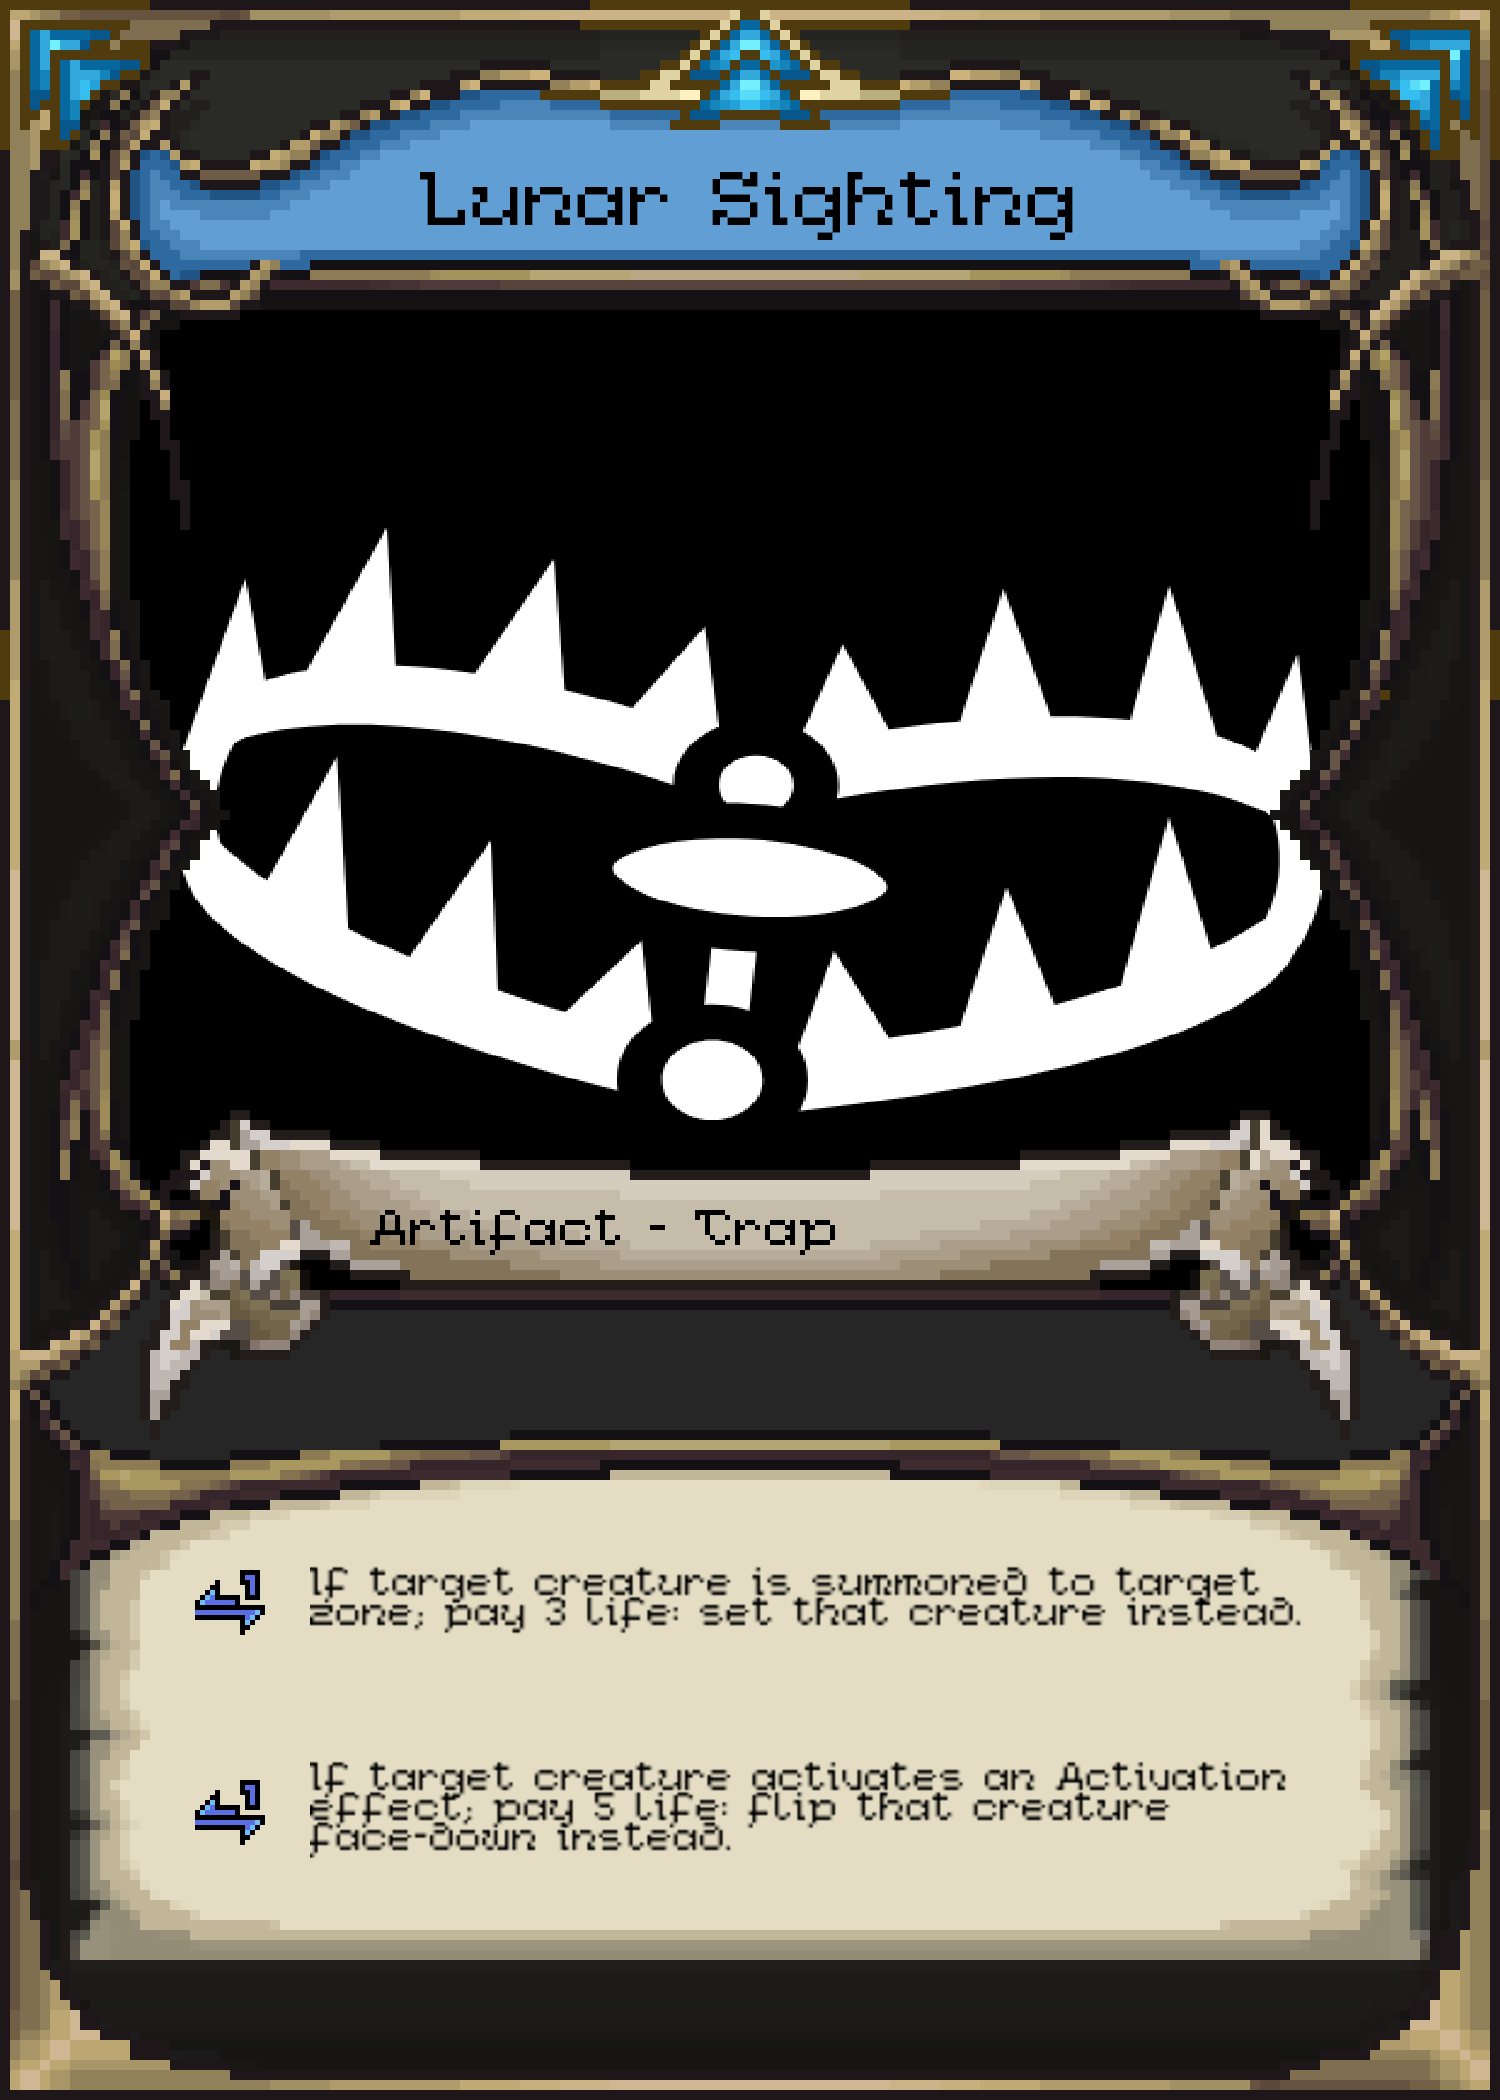
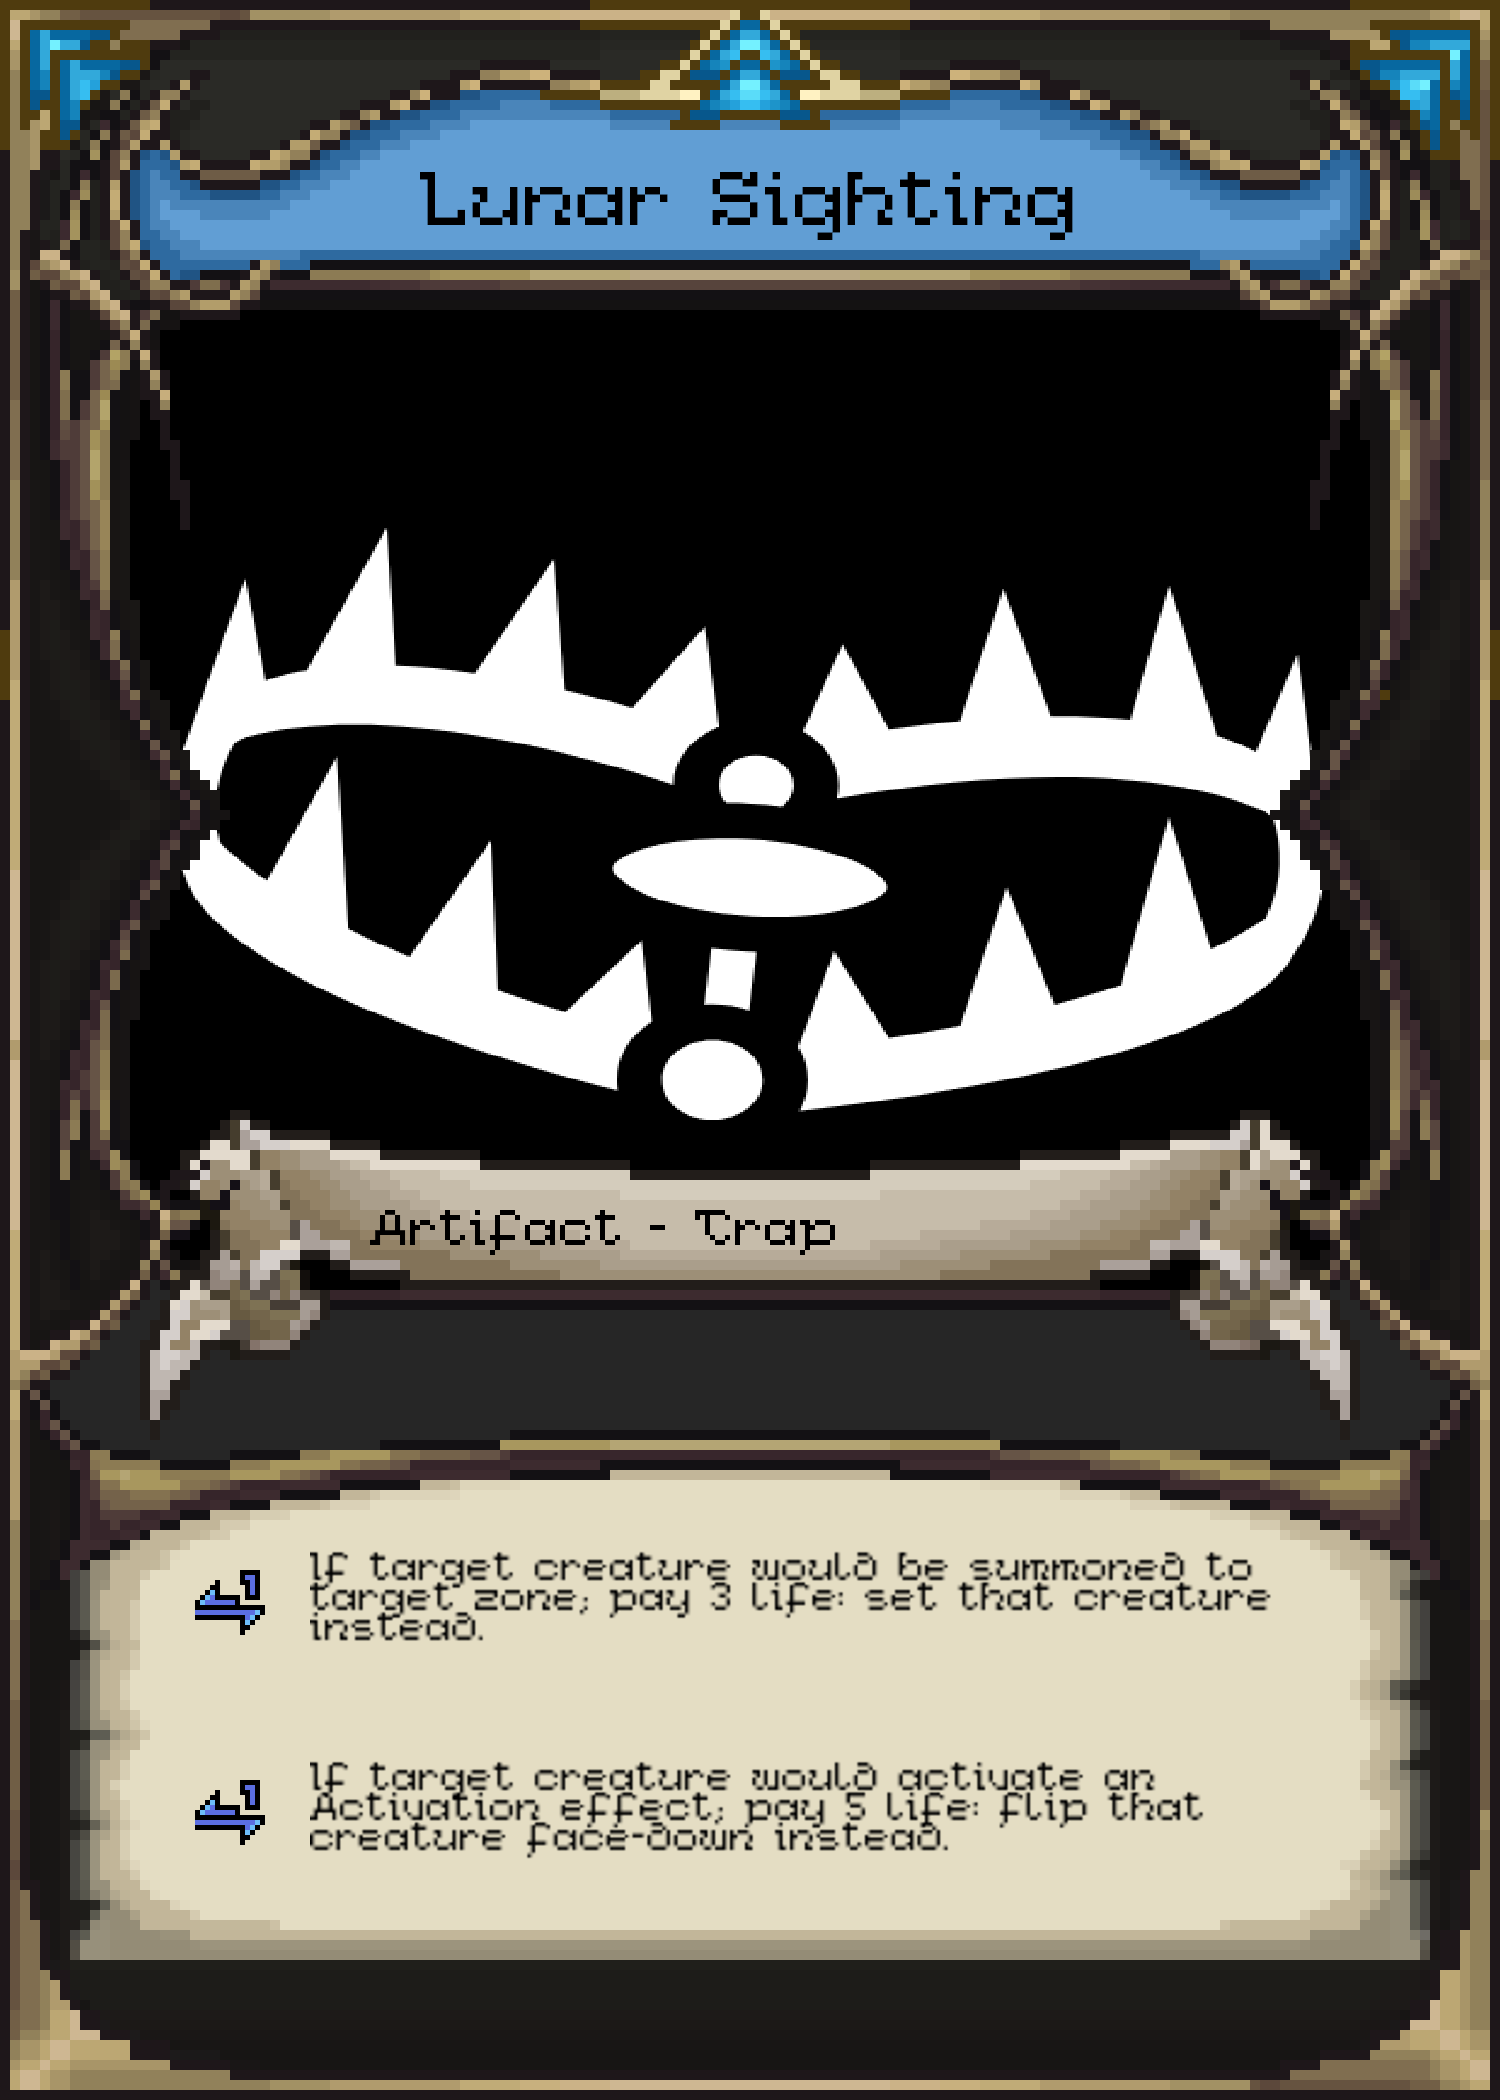
Deploy dim-rift

Changed region(s): [[0.184, 0.8357, 0.8587, 0.8976], [0.184, 0.7429, 0.8587, 0.8048]]

diff --git a/projects/dim-rift/content/cards/index.html b/projects/dim-rift/content/cards/index.html
@@ -69,13 +69,13 @@ Cards played from your extra deck can only be summoned (i.e. played face-up).</p
 <p>There are a few sub-types of Artifacts with special rules:</p>
 <h4 id="equipment" tabindex="-1">Equipment</h4>
 <p>Equipments are artifacts that have stats and [equipped]-type effects that can be transferred to a creature.</p>
-<p>When an Equipment is summoned, it's controller must immediately choose a zone respecting its arrows (i.e. &quot;target&quot; a zone). However this does not target the card currently in the zone, and empty or inactive zones can be chosen.</p>
-<p>The [equipped] zone is then established and does not move with creature movement. Any creature while in that zone immediately gets all the effects and stats transferred, and similarly lose them if they leave the zone.</p>
-<p>At the end of the equipment's Move Action, a different [equipped] zone can be selected (e.g. once during each Campaign), even if the Equipment card did not reposition or rotate.</p>
+<p>When an Equipment is summoned, its controller must immediately choose a connected creature zone (i.e. respecting the arrows). However, this does not target the card currently in the zone, and empty or even inactive zones can be chosen.</p>
+<p>The [equipped] zone is then established and does not move with creature movement. Any face-up creature, while in that zone, immediately gets all the effects and stats transferred, and similarly, immediately lose them if they leave the zone.</p>
+<p>At the end of the equipment's Move Action, or after it is rotated, a different [equipped] zone can be selected (e.g. once per equipment during each Campaign), even if the Equipment card has zero movement or did not reposition nor rotate.</p>
 <p>Attack, Life, Armor and Movement stats are transferred to the card currently in the zone, as long as any effects that mention the tag [equipped]. The Movement stat, if present, can also be used the applying the Move action to the artifact itself. The Mana establishes the amount of mana to acquire in the Equipment itself and is not transferred. Attack, Life and Armor specified are only relevant for transferring.</p>
 <h4 id="vehicle" tabindex="-1">Vehicle</h4>
 <p>Vehicles are artifacts that have stats, arrows and [equipped]-type effects that can be transferred to a creature. They all also have a greater-than-zero Movement stat, and thus can move in the Artifact row. On top of that, as part of their Move Action, they can spend 1 movement point to be &quot;crewed&quot; or &quot;uncrewed&quot;.</p>
-<p>To do that, target a creature you control from the vehicle and move the vehicle card underneath the target creature card. Now they are bound together and the creature gets the status and [equipped]-effects transferred, similar to an Equipment.</p>
+<p>To do that, target a face-up creature you control from the vehicle and move the vehicle card underneath the target creature card. Now they are bound together and the creature gets the status and [equipped]-effects transferred, similar to an Equipment.</p>
 <p>While crewed, the card is always kept underneath this creature as it moves and is destroyed if the creature is destroyed.</p>
 <p>While crewed, Attack, Life, Armor and Movement stats are combined with the creature, alongside effects tagged with [equipped]. The arrows of the vehicle are also added to the creatures arrows (you can choose the vehicle orientation underneath the creature when crewing). Vehicles cannot have Mana.</p>
 <p>You can use another 1 movement point to &quot;uncrew&quot; the artifact back to a target empty active artifact zone or the empty active artifact zone immediately &quot;below&quot; the creature.</p>

diff --git a/projects/dim-rift/content/faq/index.html b/projects/dim-rift/content/faq/index.html
@@ -19,12 +19,26 @@
     <main>
         
         <h1 id="faq" tabindex="-1">FAQ</h1>
-<h3 id="can-i-use-%22heal%22-effects-to-prevent-a-creature-from-dying-from-damage-greater-or-equal-to-its-maximum-life%3F" tabindex="-1">Can I use &quot;heal&quot; effects to prevent a creature from dying from damage greater or equal to its maximum life?</h3>
-<p>No. Since destruction is a state-based action, and due to the fact that you can't heal past the creature's max life, there is no moment in which you can activate a heal effect &quot;in between&quot; a creature reaching 0 current life and being destroyed.</p>
-<p>If the creature does not have zero damage counters before the lethal blow though, then you can activate in response to remove any prior damage to the creature.</p>
 <p class="notice">
     If anything in the rules wasn't clear, please let me know so I can improve it & add it to the FAQ!
 </p>
+<h3 id="if-a-card-is-destroyed%2C-will-its-effects-resolve%3F" tabindex="-1">If a card is destroyed, will its effects resolve?</h3>
+<p>No. Cards must still be on the field at the time of resolution for their effects to resolve. Not only that, but they still need to be connected to the same zones that were targeted at activation. If they were moved or rotated but can still connect to their targets, the effect can resolve.</p>
+<h3 id="what-is-the-correct-interaction-between-armor%2C-necrotic-and-resilient-when-dealing-damage%3F" tabindex="-1">What is the correct interaction between Armor, Necrotic and Resilient when dealing damage?</h3>
+<p>Armor reduces incoming damage by the armor amount, down to at least 1.</p>
+<p>Necrotic damage does not get cleaned up.</p>
+<p>Resilient creatures, if dealt lethal damage, only take enough damage to remain with 1 current life.</p>
+<p>So if a creature deals 5 Necrotic damage to a 2 Life, 2 Armor, 0 damage creature with Resilient, the following happens:</p>
+<ul>
+<li>The incoming damage (5) is reduced by Armor down to 3</li>
+<li>The creature would then take 3 Necrotic damage, but that would be lethal</li>
+<li>Due to Resilient, the incoming damage is reduced to 1, as that is the most damage the creature can take without being lethal</li>
+<li>The 1 damage that goes through is still Necrotic</li>
+</ul>
+<h3 id="can-i-use-%22heal%22-effects-to-prevent-a-creature-from-dying-from-damage-greater-or-equal-to-its-maximum-life%3F" tabindex="-1">Can I use &quot;heal&quot; effects to prevent a creature from dying from damage greater or equal to its maximum life?</h3>
+<p>No. Since destruction is a state-based action, and due to the fact that you can't heal past the creature's max life, there is no moment in which you can activate a heal effect &quot;in between&quot; a creature reaching 0 current life and being destroyed.</p>
+<p>If the creature does not have zero damage counters before the lethal blow though, then you can activate in response to remove any prior damage to the creature.</p>
+
     </main>
 </body>
 

diff --git a/projects/dim-rift/content/card-index/locket_of_the_ineffable_void/index.html b/projects/dim-rift/content/card-index/locket_of_the_ineffable_void/index.html
@@ -44,24 +44,16 @@
                 </span>
             
             
-                <span class="stat-block" title="3 Life">
-                    3 <img src="/projects/dim-rift/assets/icons/life.png">
-                </span>
-            
             
                 <span class="stat-block" title="3 Armor">
                     3 <img src="/projects/dim-rift/assets/icons/armor.png">
                 </span>
             
             
-                <span class="stat-block" title="3 Movement">
-                    3 <img src="/projects/dim-rift/assets/icons/movement.png">
-                </span>
-            
             
         </p>
         <p><strong>Arrows:</strong></p>
-        <ul></ul>
+        <ul><li>top: single</li></ul>
     </div>
 </div>
 
@@ -70,7 +62,7 @@
         <div>
             <strong>Cost</strong>
             <br>
-            Sac a creature and two artifacts: summon.
+            Sac a creature and 3 artifacts: summon.
         </div>
     </div><div class="image-with-text">
         <img src="/projects/dim-rift/assets/icons/e-continuous.png" class="game-icon" alt="Continuous" title="Continuous">

diff --git a/projects/dim-rift/content/card-index/attack_reaction/index.html b/projects/dim-rift/content/card-index/attack_reaction/index.html
@@ -52,14 +52,14 @@
         <div>
             <strong>Mandatory Once-per-turn Trigger</strong>
             <br>
-            If target creature blocks an attacker: that creature gets either (1) +1 Attack or (2) +1 Armor.
+            If target creature blocks an attacker: that creature gets either (1) +2 Attack or (2) +2 Armor until end of turn.
         </div>
     </div><div class="image-with-text">
         <img src="/projects/dim-rift/assets/icons/e-opt-trigger.png" class="game-icon" alt="Mandatory Once-per-turn Trigger" title="Mandatory Once-per-turn Trigger">
         <div>
             <strong>Mandatory Once-per-turn Trigger</strong>
             <br>
-            If target creature declares an Attack Action against a blocker: that creature gets either (1) +1 Attack or (2) +1 Armor.
+            If target creature declares an Attack Action against a blocker: that creature gets either (1) +2 Attack or (2) +2 Armor until end of turn.
         </div>
     </div>
 

diff --git a/projects/dim-rift/content/card-index/lunar_sighting/index.html b/projects/dim-rift/content/card-index/lunar_sighting/index.html
@@ -52,14 +52,14 @@
         <div>
             <strong>Mandatory Once-per-turn Trigger</strong>
             <br>
-            If target creature is summoned to target zone; pay 3 life: set that creature instead.
+            If target creature would be summoned to target zone; pay 3 life: set that creature instead.
         </div>
     </div><div class="image-with-text">
         <img src="/projects/dim-rift/assets/icons/e-opt-trigger.png" class="game-icon" alt="Mandatory Once-per-turn Trigger" title="Mandatory Once-per-turn Trigger">
         <div>
             <strong>Mandatory Once-per-turn Trigger</strong>
             <br>
-            If target creature activates an Activation effect; pay 5 life: flip that creature face-down instead.
+            If target creature would activate an Activation effect; pay 5 life: flip that creature face-down instead.
         </div>
     </div>
 

diff --git a/projects/dim-rift/content/card-index/cylindrical_concoction/index.html b/projects/dim-rift/content/card-index/cylindrical_concoction/index.html
@@ -54,6 +54,13 @@
             <br>
             If you are dealt damage by your opponent: all damage dealt to you this chain by your opponent is dealt to your opponent instead, and vice-versa (note: this does not include paying costs.).
         </div>
+    </div><div class="image-with-text">
+        <img src="/projects/dim-rift/assets/icons/e-opt-trigger.png" class="game-icon" alt="Mandatory Once-per-turn Trigger" title="Mandatory Once-per-turn Trigger">
+        <div>
+            <strong>Mandatory Once-per-turn Trigger</strong>
+            <br>
+            If a creature is dealt X damage: you gain X life.
+        </div>
     </div>
 
 <hr>

diff --git a/projects/dim-rift/content/card-index/frozen_shrine_of_the_fallen/index.html b/projects/dim-rift/content/card-index/frozen_shrine_of_the_fallen/index.html
@@ -65,7 +65,7 @@
         <div>
             <strong>Optional Once-per-turn Trigger</strong>
             <br>
-            At the your opponent's end of turn; sac a face-down creature: draw two cards.
+            At your opponent's end of turn; sac a face-down creature: draw two cards.
         </div>
     </div><div class="image-with-text">
         <img src="/projects/dim-rift/assets/icons/e-slow-opt-activation.png" class="game-icon" alt="Slow Once-per-turn Activation" title="Slow Once-per-turn Activation">

diff --git a/projects/dim-rift/content/card-index/enigmatic_tome/index.html b/projects/dim-rift/content/card-index/enigmatic_tome/index.html
@@ -53,7 +53,7 @@
             
         </p>
         <p><strong>Arrows:</strong></p>
-        <ul><li>top: single</li></ul>
+        <ul><li>top: single</li><li>topRight: single</li><li>topLeft: single</li></ul>
     </div>
 </div>
 
